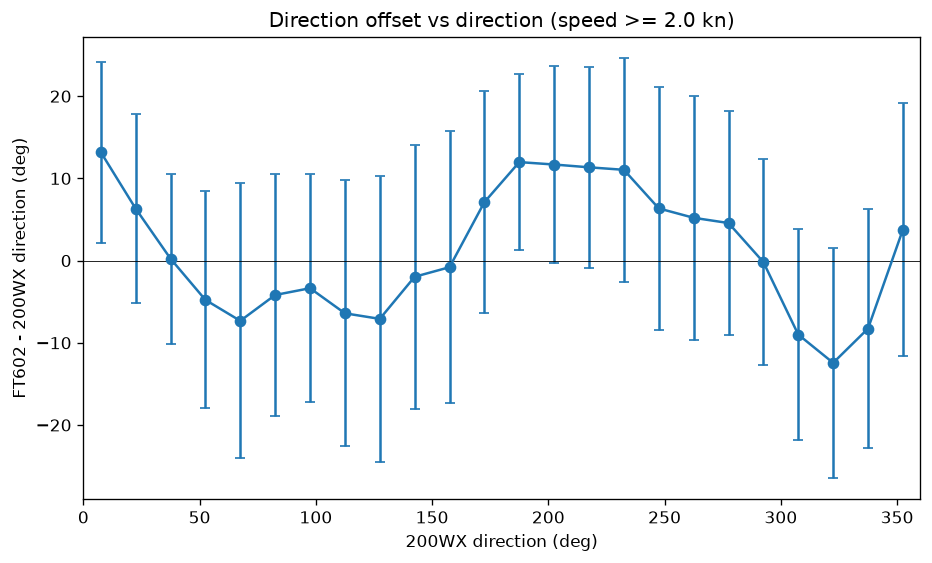
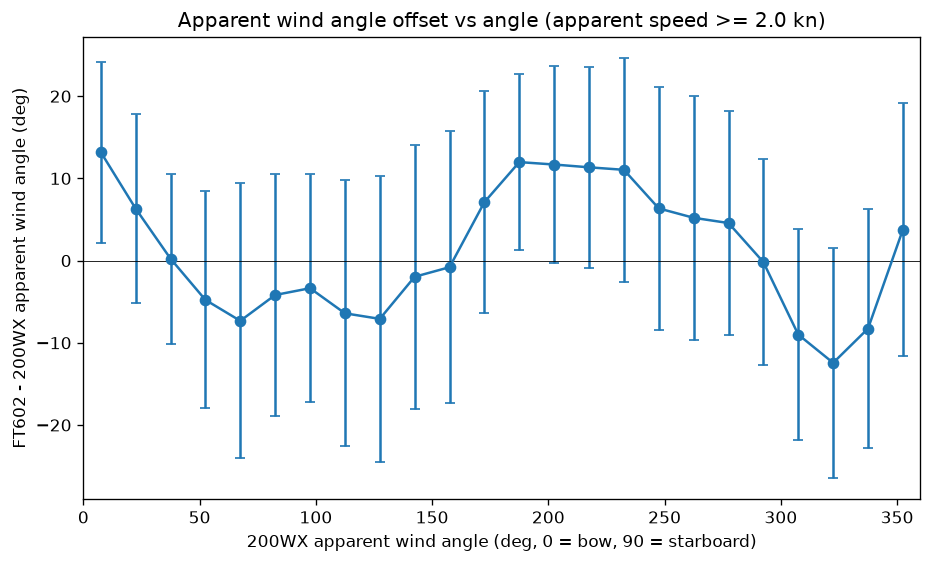
Clarify that apparent wind is used.

Changed region(s): [[0.2489, 0.9361, 0.809, 0.9964], [0.1867, 0.0, 0.9024, 0.0604], [0.0, 0.151, 0.0311, 0.7851]]

diff --git a/src/ft602_analysis/direction.py b/src/ft602_analysis/direction.py
@@ -27,7 +27,7 @@ def circ_std(deg):
 
 
 def to_uv(spd, direction):
-    """Convert speed and direction (deg, 0 = north/bow, clockwise) to (u, v) = (east, north) components."""
+    """Convert speed and direction (deg, 0 = north/bow, clockwise) to (u, v) components (apparent: u = starboard, v = bow)."""
     rad = np.deg2rad(np.asarray(direction, float))
     spd = np.asarray(spd, float)
     return spd * np.sin(rad), spd * np.cos(rad)
@@ -82,8 +82,8 @@ def plot_direction(df, path_prefix, threshold=SPEED_THRESHOLD_KN, bin_deg=15):
     fig, ax = plt.subplots(figsize=(9, 5))
     ax.errorbar(tab["dir_bin"], tab["mean_offset"], yerr=tab["circ_sd"], fmt="o-", capsize=3)
     ax.axhline(0, color="k", lw=0.5)
-    ax.set(xlabel="200WX direction (deg)", ylabel="FT602 - 200WX direction (deg)",
-           title=f"Direction offset vs direction (speed >= {threshold} kn)", xlim=(0, 360))
+    ax.set(xlabel="200WX apparent wind angle (deg, 0 = bow, 90 = starboard)", ylabel="FT602 - 200WX apparent wind angle (deg)",
+           title=f"Apparent wind angle offset vs angle (apparent speed >= {threshold} kn)", xlim=(0, 360))
     off_path = f"{path_prefix}_offset_vs_dir.png"
     fig.savefig(off_path, dpi=120, bbox_inches="tight")
     plt.close(fig)
@@ -93,13 +93,14 @@ def plot_direction(df, path_prefix, threshold=SPEED_THRESHOLD_KN, bin_deg=15):
     n = len(df)
     idx = np.random.default_rng(0).choice(n, min(n, 200_000), replace=False)
     fig, axes = plt.subplots(1, 2, figsize=(12, 6))
-    for ax, (x, y, name) in zip(axes, [(wu, fu, "u (east)"), (wv, fv, "v (north)")]):
+    for ax, (x, y, name) in zip(axes, [(wu, fu, "apparent u (starboard)"), (wv, fv, "apparent v (bow)")]):
         ax.hexbin(np.asarray(x)[idx], np.asarray(y)[idx], gridsize=80, bins="log",
                   cmap="viridis", mincnt=1)
         lim = max(np.abs(x).max(), np.abs(y).max())
         ax.plot([-lim, lim], [-lim, lim], "k:")
         ax.set(xlabel=f"200WX {name} (kn)", ylabel=f"FT602 {name} (kn)", aspect="equal",
                title=name)
+    fig.suptitle("Apparent wind components (boat frame: u = starboard, v = toward bow)")
     uv_path = f"{path_prefix}_uv.png"
     fig.savefig(uv_path, dpi=120, bbox_inches="tight")
     plt.close(fig)

diff --git a/src/ft602_analysis/speed.py b/src/ft602_analysis/speed.py
@@ -68,8 +68,9 @@ def plot_speed(df, path_prefix, a="ft_spd", b="wi_spd", max_points=200_000):
     ax.axhline(bias, color="r", label=f"bias {bias:.2f} kn")
     for k in (-1.96, 1.96):
         ax.axhline(bias + k * sd, color="r", ls="--")
-    ax.set(xlabel="Mean of FT602 and 200WX (kn)", ylabel="FT602 - 200WX (kn)",
-           title="Bland-Altman: wind speed")
+    ax.set(xlabel="Mean of FT602 and 200WX apparent wind speed (kn)",
+           ylabel="FT602 - 200WX apparent wind speed (kn)",
+           title="Bland-Altman: apparent wind speed")
     ax.legend()
     ba_path = f"{path_prefix}_bland_altman.png"
     fig.savefig(ba_path, dpi=120, bbox_inches="tight")
@@ -82,8 +83,8 @@ def plot_speed(df, path_prefix, a="ft_spd", b="wi_spd", max_points=200_000):
     ax.plot(lim, lim, "k:", label="1:1")
     ax.plot(lim, slope * lim + intercept, "r",
             label=f"TLS: y={slope:.3f}x+{intercept:.2f}, R²={r2:.3f}")
-    ax.set(xlabel="200WX speed (kn)", ylabel="FT602 speed (kn)",
-           title="Wind speed regression", aspect="equal")
+    ax.set(xlabel="200WX apparent wind speed (kn)", ylabel="FT602 apparent wind speed (kn)",
+           title="Apparent wind speed regression", aspect="equal")
     ax.legend()
     sc_path = f"{path_prefix}_scatter.png"
     fig.savefig(sc_path, dpi=120, bbox_inches="tight")

diff --git a/src/ft602_analysis/gusts.py b/src/ft602_analysis/gusts.py
@@ -48,9 +48,9 @@ def plot_gusts(w, path_prefix):
     import matplotlib.pyplot as plt
 
     fig, axes = plt.subplots(1, 3, figsize=(16, 5.5))
-    for ax, (key, label) in zip(axes, [("max", "10-min max speed (kn)"),
-                                       ("gf", "Gust factor (max/mean)"),
-                                       ("ti", "Turbulence intensity (σ/mean)")]):
+    for ax, (key, label) in zip(axes, [("max", "10-min max apparent wind speed (kn)"),
+                                       ("gf", "Apparent gust factor (max/mean)"),
+                                       ("ti", "Apparent turbulence intensity (σ/mean)")]):
         x, y = w[f"wi_{key}"], w[f"ft_{key}"]
         ax.hexbin(x, y, gridsize=50, bins="log", cmap="viridis", mincnt=1)
         lim = [0, max(x.max(), y.max())]

diff --git a/REPORT.md b/REPORT.md
@@ -67,7 +67,7 @@ This analysis cannot tell which sensor is correct, only that they disagree in a 
 
 ![u/v components](out/direction_uv.png)
 
-**Components.** u is the east component and v is the north component, which for apparent wind means starboard-ish and bow-ward. Components avoid angle wraparound, so they give a cleaner picture.
+**Components.** These are apparent-wind components in the boat's frame: u is the starboard component (90° = starboard) and v is the bow component (0° = bow), not east/north.
 
 | Component | Bias (kn) | Slope | R²    |
 |-----------|-----------|-------|-------|
